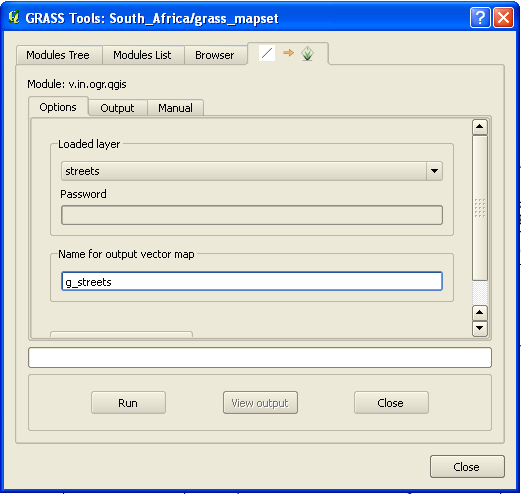
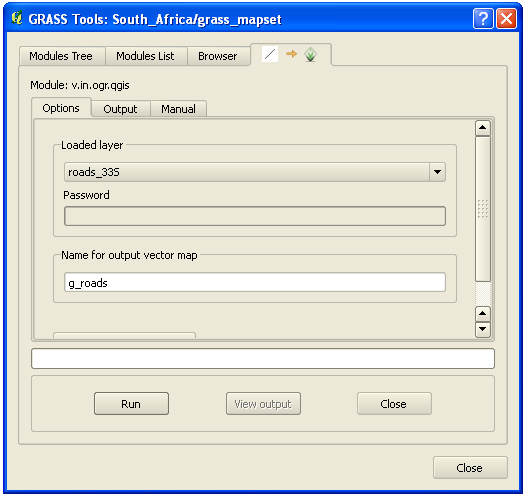
grass progress - windows

Changed region(s): [[0.0, 0.0, 1.0, 1.0], [0.0921, 0.2733, 0.2457, 0.4555], [0.1536, 0.7895, 0.1843, 0.8198]]

diff --git a/grass/grass_setup.rst b/grass/grass_setup.rst
@@ -69,9 +69,9 @@ Click :guilabel:`Finish`, then click :guilabel:`OK` on the success dialog:
 -------------------------------------------------------------------------------
 
 You'll now have a blank map. To load data into GRASS, you need to follow a
-two-step process. First, load data into QGIS as usual. Use the :kbd:`streets`
-dataset for now. As soon as it's loaded, click on the :guilabel:`GRASS Tools`
-button:
+two-step process. First, load data into QGIS as usual. Use the
+:kbd:`roads_33S.shp` dataset (found under :kbd:`exercise_data/projected_data/`)
+for now. As soon as it's loaded, click on the :guilabel:`GRASS Tools` button:
 
 .. image:: ../_static/grass/013.png
 
@@ -89,23 +89,55 @@ Once you've found this tool, clicking on it will bring up the tool itself:
 
 .. image:: ../_static/grass/014.png
 
-Set the loaded layer to :guilabel:`streets` and its GRASS version's name to
-:kbd:`g_streets` to prevent confusion.
+Set the loaded layer to :guilabel:`roads_33S` and its GRASS version's name to
+:kbd:`g_roads` to prevent confusion.
+
+.. image:: ../_static/grass/015.png
 
 .. note:: |hard| Note the extra import options provided under
-   :guilabel:`Advanced Options`. These include the ability to write the WHERE
-   clause for the SQL query used for the import into the GDAL database.
+   :guilabel:`Advanced Options`. These include the ability to add a WHERE
+   clause for the SQL query used for importing the data.
 
 Click :guilabel:`Run` to begin the import. When it's done, click the
 :guilabel:`View output` button to see the newly imported GRASS layer in the
 map. Close first the import tool itself (click the :guilabel:`Close` button to
 the immediate right of :guilabel:`View output`), then close the :guilabel:`GDAL
-Tools` window. Remove the original :guilabel:`streets` layer.
+Tools` window. Remove the original :guilabel:`roads_33S` layer.
 
 Now you are left with only the imported GRASS layer as displayed in your QGIS
 map.
 
-|basic| |FA|
+|basic| |FA| Loading Raster Data into GRASS
 -------------------------------------------------------------------------------
 
-NOTE: problem with raster import - shows up in completely different area from vector - projection?
+Open the :guilabel:`GRASS Tools` dialog again and click on the
+:guilabel:`Modules List` tab.
+
+Search for :kbd:`r.in.gdal.qgis`:
+
+.. image:: ../_static/grass/016.png
+
+Which gives you this tool:
+
+.. image:: ../_static/grass/017.png
+
+Set it up as shown (inut layer is :guilabel:`srtm_41_19.tif`, output is
+:kbd:`g_dem`), then click :guilabel:`Run`. When the process is done, click
+:guilabel:`View output`, then :guilabel:`Close` the current tab, and then
+:guilabel:`Close` the whole dialog.
+
+You may now remove the original :guilabel:`srtm_41_19` layer.
+
+|IC|
+-------------------------------------------------------------------------------
+
+The GRASS workflow for ingesting data is somewhat different from the QGIS
+method, because GRASS loads its data into a spatial database structure.
+However, by using QGIS as a frontend, you can make the setup of a GRASS mapset
+easier by using existing layers in QGIS as data sources for GRASS.
+
+|WN|
+-------------------------------------------------------------------------------
+
+Now that the data is imported into GRASS, we can look at the advanced analysis
+operations that GRASS offers.
